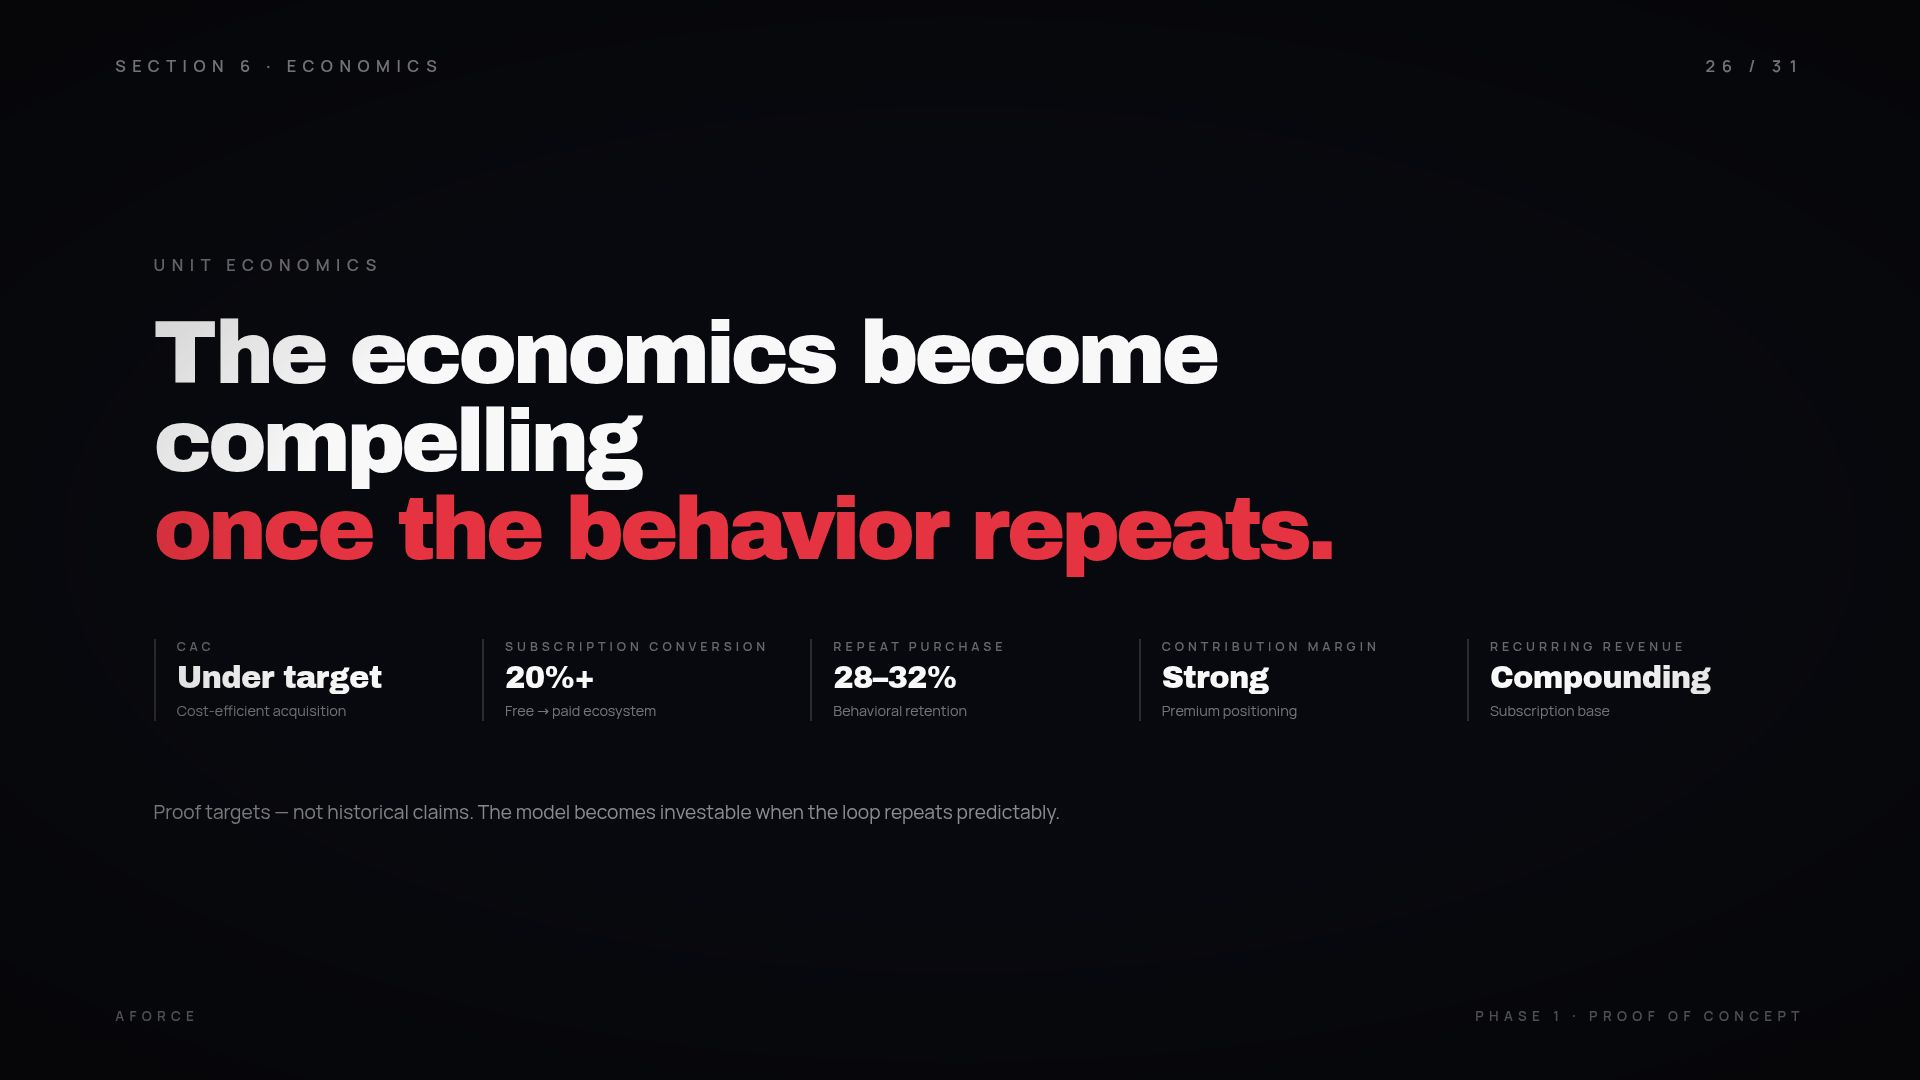
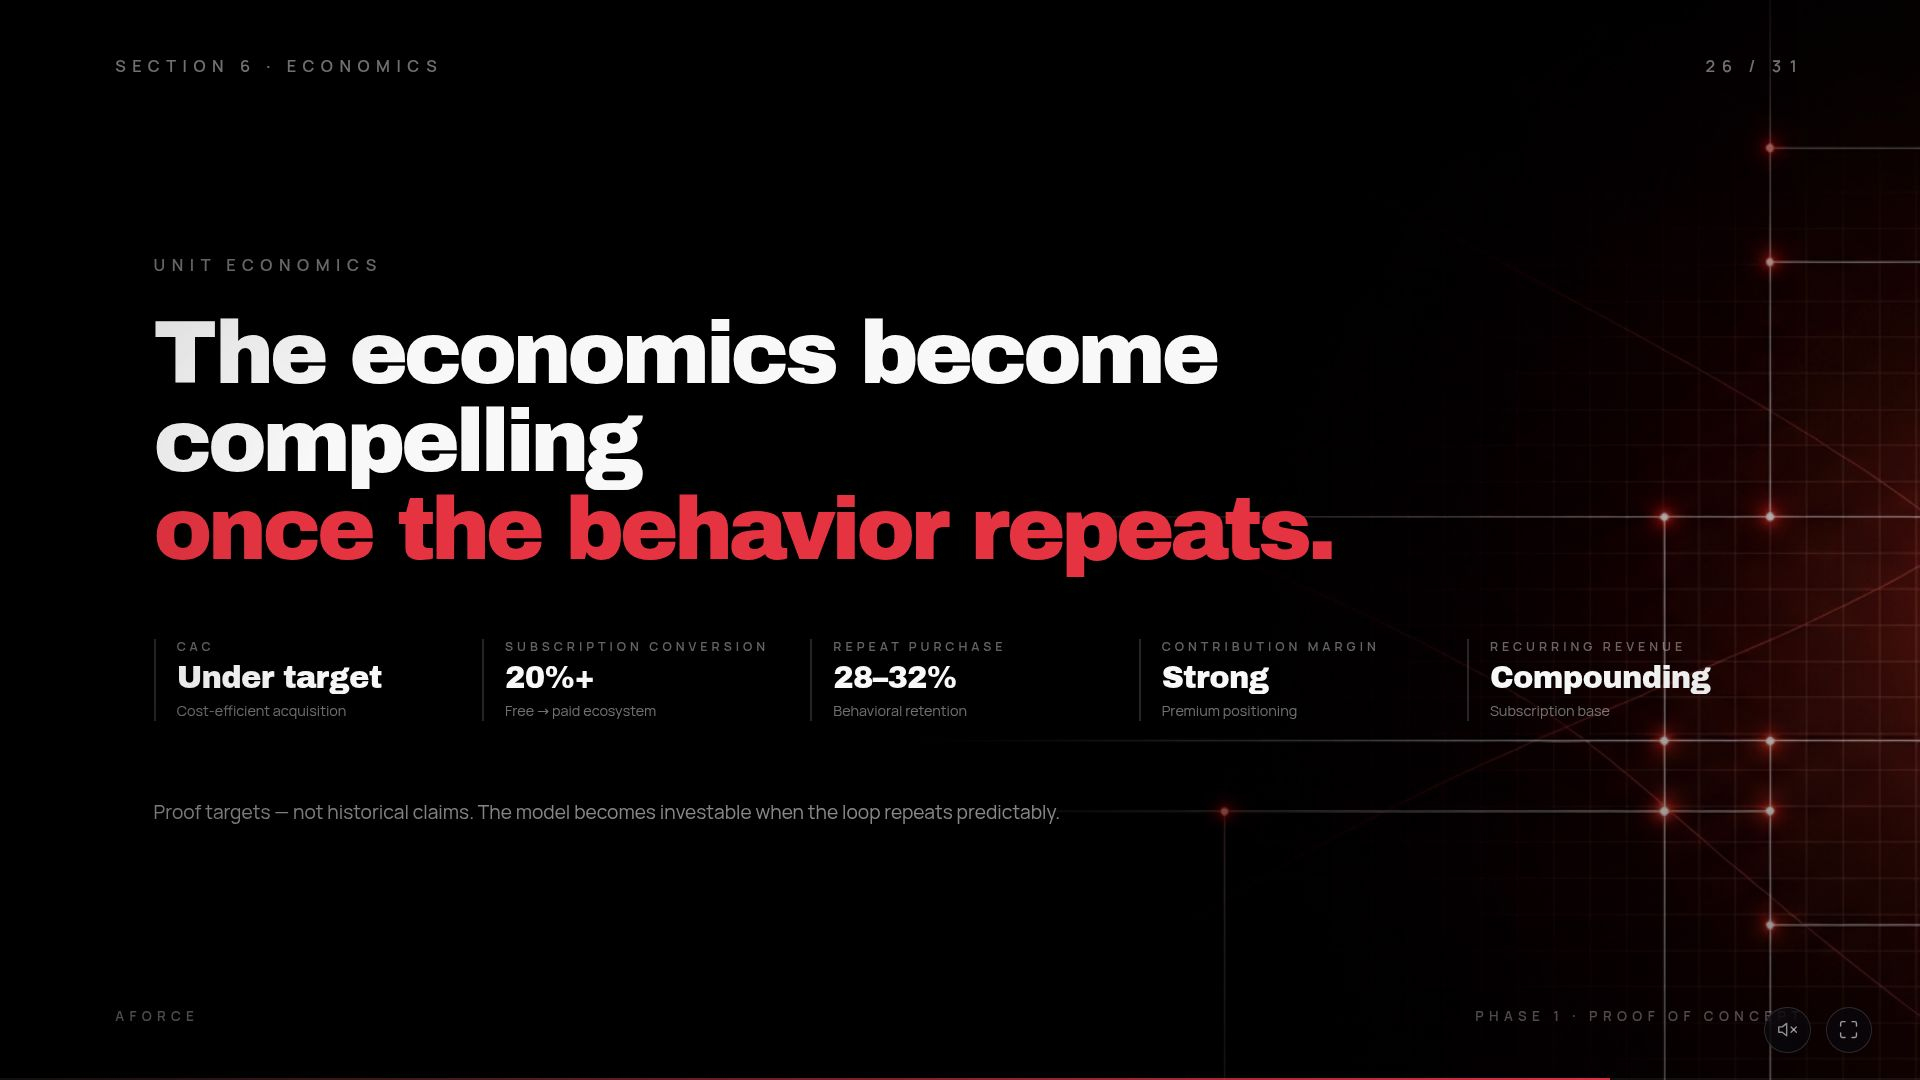
Add a new visual design for the unit economics slide
Update UnitEconomics.tsx to include a new background image and gradient overlay for slide 26.

Replit-Commit-Author: Agent
Replit-Commit-Session-Id: 735f25c4-ed8e-4817-8f79-73dd845c27a6
Replit-Commit-Checkpoint-Type: full_checkpoint
Replit-Commit-Event-Id: 2a3a6858-d4e2-41b4-b66a-169f74ef9e86
Replit-Commit-Screenshot-Url: https://storage.googleapis.com/screenshot-production-us-central1/745ad57f-0f0d-4501-8ad0-cf0ad11b0793/735f25c4-ed8e-4817-8f79-73dd845c27a6/pacMIWb
Replit-Helium-Checkpoint-Created: true

diff --git a/artifacts/aforce-pitch/src/pages/slides/UnitEconomics.tsx b/artifacts/aforce-pitch/src/pages/slides/UnitEconomics.tsx
@@ -1,4 +1,5 @@
 import SlideChrome from "@/components/SlideChrome";
+import bgImg from "@assets/unit_econ_recurC_mesh.png";
 
 const TARGETS = [
   { k: "CAC", v: "Under target", note: "Cost-efficient acquisition" },
@@ -11,6 +12,24 @@ const TARGETS = [
 export default function UnitEconomics() {
   return (
     <SlideChrome slide={26}>
+      <div
+        className="absolute inset-0"
+        style={{
+          backgroundImage: `url(${bgImg})`,
+          backgroundSize: "cover",
+          backgroundPosition: "center right",
+          filter: "contrast(1.05) brightness(0.95)",
+          opacity: 0.88,
+        }}
+      />
+      <div
+        className="absolute inset-0 pointer-events-none"
+        style={{
+          background:
+            "linear-gradient(90deg, rgba(0,0,0,0.9) 0%, rgba(0,0,0,0.72) 38%, rgba(0,0,0,0.32) 72%, rgba(0,0,0,0.05) 100%)",
+        }}
+      />
+
       <div className="absolute inset-0 flex flex-col justify-center px-[8vw]">
         <div className="font-body uppercase tracking-[0.4em] text-[0.85vw] text-text/45 font-semibold mb-[3vh]">
           Unit Economics
